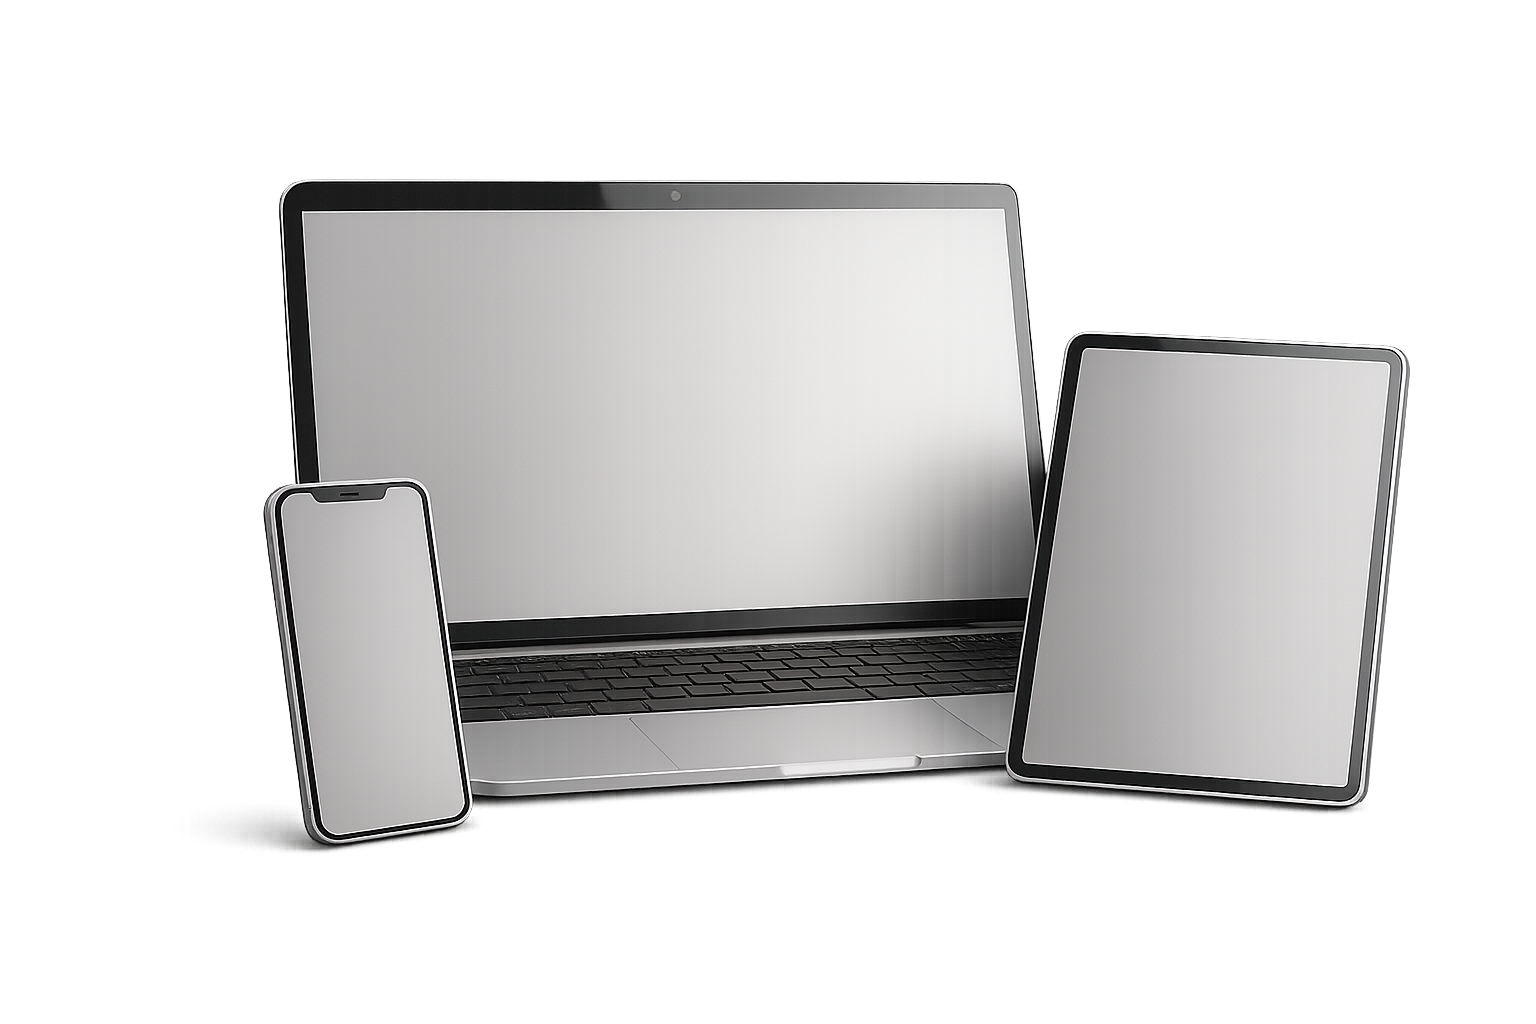
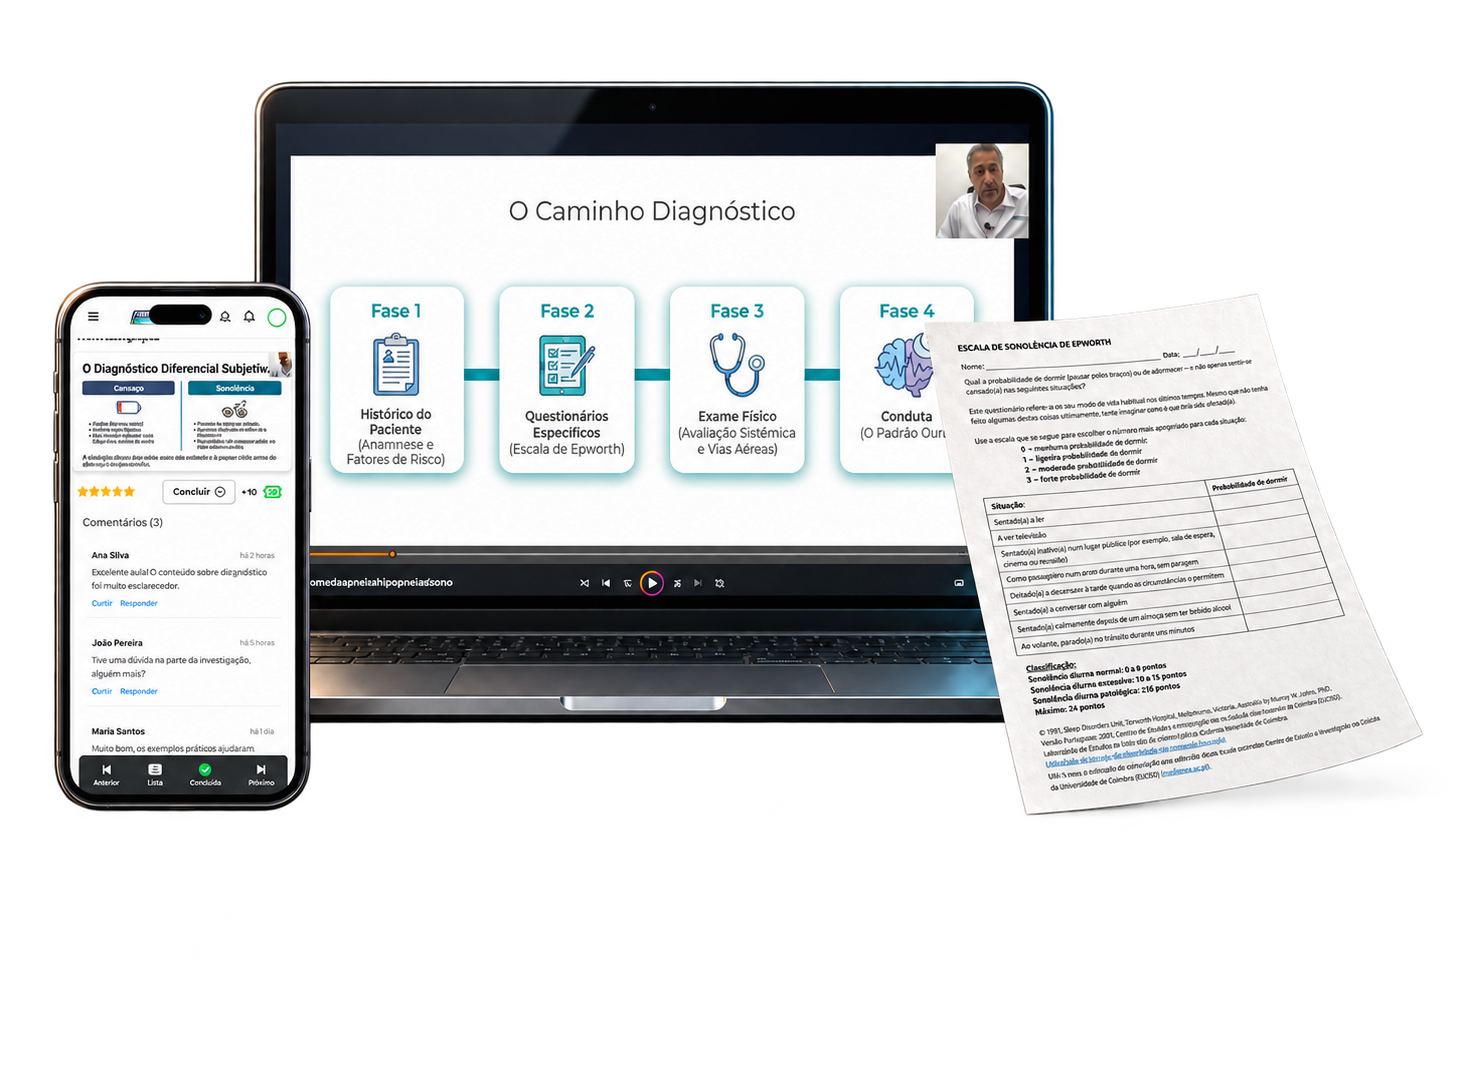
fix(hero): refine responsive desktop variants

diff --git a/docs/qa/HERO-FIGMA-DESKTOP-2026-09-18.md b/docs/qa/HERO-FIGMA-DESKTOP-2026-09-18.md
@@ -3,7 +3,9 @@
 ## Referência e escopo
 
 - [Desktop 1440 × 679](https://www.figma.com/design/HSptW2QgO7uso9TRcJFMIA/Apneia-Na-Pratica?node-id=378-99&m=dev).
+- [Notebook 1707.333 × 734.958](https://www.figma.com/design/HSptW2QgO7uso9TRcJFMIA/Apneia-Na-Pratica?node-id=611-348&m=dev), com escopo restrito ao Hero Content `611:368`.
 - [Desktop Wide 1920 × 828](https://www.figma.com/design/HSptW2QgO7uso9TRcJFMIA/Apneia-Na-Pratica?node-id=378-102&m=dev).
+- [QHD 2560px](https://www.figma.com/design/HSptW2QgO7uso9TRcJFMIA/Apneia-Na-Pratica?node-id=295-10&m=dev), [Ultrawide 3440px](https://www.figma.com/design/HSptW2QgO7uso9TRcJFMIA/Apneia-Na-Pratica?node-id=295-11&m=dev) e [Super Ultrawide 5120px](https://www.figma.com/design/HSptW2QgO7uso9TRcJFMIA/Apneia-Na-Pratica?node-id=295-12&m=dev).
 - Ajuste exclusivamente visual da Hero desktop, solicitado em 18/09/2026. Mobile/tablet e demais seções aprovados devem permanecer intactos.
 
 ## Implementação
@@ -15,13 +17,16 @@
 - Sombra baseada no alpha do retrato; glow e ícone SVG extraídos do Figma. Os SVGs são decorativos, sem foco ou anúncios ao leitor de tela.
 - Background e logoform existentes reutilizados: exports já incorporam o recorte/opacity. Não aplicar novamente o crop da imagem-fonte às logos renderizadas.
 - Mantida a altura fluida entre 1680 e 1920px introduzida na versão anterior.
+- Hero Content interpolado pelos três pontos aprovados de 1440px, 1707.333px e 1920px; a composição da direita preserva sua art direction independente.
+- Acima de 2560px, a composição passa a usar o canvas de 1080px dos frames extra-wide, centralizando conteúdo e visual enquanto o espaço lateral cresce.
 
 ## Verificação
 
 - Build Astro de produção aprovado.
-- Comparação visual em Chromium contra screenshots nativos dos dois frames, com fontes e imagens carregadas.
-- Posição do conteúdo: x200/y98.18/w404 no desktop; x350/y118.85/w476 no wide. H1 inicia aproximadamente em x206.52/y154.2 e x357.69/y184.88, respectivamente.
-- Testadas 18 larguras: 320, 359, 360, 390, 480, 767, 768, 1023, 1024, 1100, 1280, 1366, 1440, 1679, 1680, 1692, 1920 e 2560px. Sem overflow horizontal ou corte do conteúdo da Hero.
+- Comparação visual em Chromium contra screenshots nativos dos seis frames, com fontes e imagens carregadas.
+- Posição do conteúdo: x200/y98.18/w404 em 1440px; x253/y115/w457 em 1707px; x350/y118.85/w476 em 1920px; x479/y181/w648 em 2560px, deslocando-se pelo centro em 3440px e 5120px.
+- Testadas 21 larguras, incluindo 320, 390, 768, 1024, 1366, 1440, 1707, 1920, 2560, 3440 e 5120px. Sem overflow horizontal, imagens quebradas ou corte do conteúdo da Hero.
+- Mockup da oferta validado com o novo PNG de 1465 × 1074, transparência preservada e sem alteração no CTA/formulário.
 - Botão da Hero continua navegando para a seção de oferta existente.
 - Grades visíveis preservadas: identificação/conteúdo 3×2 no desktop; método 4×1; tablet em duas colunas e celular em uma.
 - Capturas da Hero em 390, 768 e 1023px idênticas pixel a pixel ao baseline local anterior. Em 320px, a pequena diferença ficou restrita à rasterização da logo; não houve alteração de regra ou asset mobile.

diff --git a/docs/engineering/SECTION-VISIBILITY.md b/docs/engineering/SECTION-VISIBILITY.md
@@ -1,6 +1,6 @@
 # Substituição da Hero e remoção da cartilha ilustrada
 
-## Estado atual — v1.3.2
+## Estado atual — v1.3.3
 
 Por solicitação explícita do usuário em 18/09/2026, a Hero antiga e o card
 ilustrado da cartilha foram excluídos do código ativo, não apenas ocultados.
@@ -14,7 +14,7 @@ A cartilha continua fazendo parte da oferta e das menções comerciais.
 ## Integração
 
 - Composição, imagens e textos da Hero fornecida pelo usuário preservados.
-- CSS e tokens limitados ao componente Astro; desktop refinado pelos frames Figma 378:99 e 378:102, com Inter no título e Arimo no corpo/CTA. Mobile/tablet preservados da integração original.
+- CSS e tokens limitados ao componente Astro; desktop refinado pelos frames Figma 378:99, 611:348, 378:102, 295:10, 295:11 e 295:12, com Inter no título e Arimo no corpo/CTA. Mobile/tablet preservados da integração original.
 - Botão adaptado de `#comprar` (sem destino no projeto de origem) para `#oferta`, preservando o fluxo da landing page. Não foram criados links de checkout.
 - Quatro retratos PNG idênticos da origem consolidados em `src/assets/hero/expert.png`; Astro gera WebP responsivo sem mudar a composição.
 - Bases de assets derivadas de `import.meta.env.BASE_URL`, sem depender de caminhos do repositório de teste.

diff --git a/CHANGELOG.md b/CHANGELOG.md
@@ -7,6 +7,18 @@ e este projeto adere ao [Semantic Versioning](https://semver.org/lang/pt-BR/).
 
 ---
 
+## [1.3.3] - 2026-09-18
+
+### Corrigido
+- Hero Content passa a responder continuamente entre os frames de 1440px, 1707.333px e 1920px, eliminando a troca brusca de tamanho na resolução do notebook.
+- Variantes extra-wide implementadas a partir do Figma para 2560px, 3440px e 5120px, com conteúdo e composição visual centralizados sem overflow horizontal.
+
+### Modificado
+- Mockup da oferta substituído pelo arquivo `PRODUTO.png` fornecido, com dimensões e texto alternativo atualizados.
+
+### Preservado
+- Hero mobile/tablet, copy, destino dos CTAs, formulário de lead, preço, cards e demais seções aprovadas.
+
 ## [1.3.2] - 2026-09-18
 
 ### Corrigido
